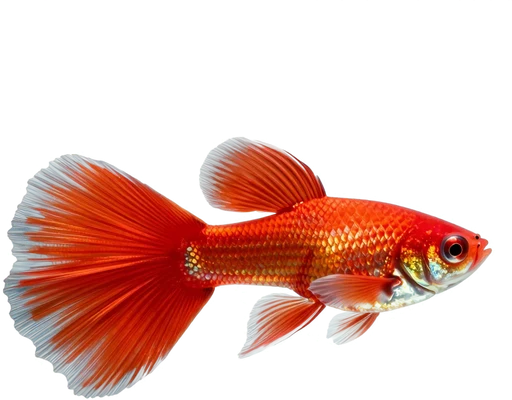
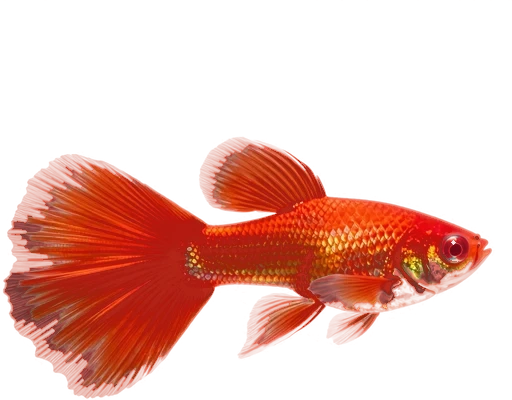
孔雀魚品系：禮服改成前銀後黑、白子改成紅眼全紅
- 藍尾禮服四種尾型：前半身銀白、後半身黑色，尾鰭和背鰭改成乾淨的藍
- 全紅白子四種尾型：頭和鰭邊改成紅色、去掉黑色素、眼睛改成寶石紅
- 換色出來的白子（白子紅蛇王等）也把眼睛改成紅色，不跟著主色

Claude-Session: https://claude.ai/code/session_01KsbS4vLZbfPytVNgNzSz4q

diff --git a/src/render/phenotype-art.ts b/src/render/phenotype-art.ts
@@ -120,8 +120,9 @@ export function recolorPixel(r: number, g: number, b: number, recipe: PhenotypeR
   return hslToRgb(h, Math.min(1, s), Math.min(1, l));
 }
 
-/** 整張圖（RGBA）就地改色。 */
-export function recolorImage(data: Uint8ClampedArray, recipe: PhenotypeRecipe): void {
+/** 整張圖（RGBA）就地改色。給了寬度時，白子的眼睛改成紅色（沒有黑色素，看得到血色）。 */
+export function recolorImage(data: Uint8ClampedArray, recipe: PhenotypeRecipe, width = 0): void {
+  const eye = recipe.albino && width > 0 ? eyePixels(data, width) : [];
   for (let i = 0; i < data.length; i += 4) {
     if (data[i + 3] === 0) continue;
     const [r, g, b] = recolorPixel(data[i] / 255, data[i + 1] / 255, data[i + 2] / 255, recipe);
@@ -129,4 +130,35 @@ export function recolorImage(data: Uint8ClampedArray, recipe: PhenotypeRecipe): 
     data[i + 1] = Math.round(g * 255);
     data[i + 2] = Math.round(b * 255);
   }
+  for (const [i, k] of eye) {
+    data[i] = 110 + 120 * k;
+    data[i + 1] = 8 + 30 * k;
+    data[i + 2] = 22 + 30 * k;
+  }
+}
+
+const lum = (d: Uint8ClampedArray, i: number) => (d[i] * 0.3 + d[i + 1] * 0.59 + d[i + 2] * 0.11) / 255;
+
+/** 魚頭朝右：右邊 20% 最暗的點是瞳孔；回傳瞳孔附近暗像素的位置和亮度（0–1）。 */
+export function eyePixels(data: Uint8ClampedArray, width: number): [number, number][] {
+  const height = data.length / 4 / width;
+  let best = -1, bestL = 2;
+  for (let y = 0; y < height; y++) {
+    for (let x = Math.floor(width * 0.8); x < width; x++) {
+      const i = (y * width + x) * 4;
+      if (data[i + 3] < 200) continue;
+      const l = lum(data, i);
+      if (l < bestL) { bestL = l; best = i / 4; }
+    }
+  }
+  if (best < 0) return [];
+  const cx = best % width, cy = Math.floor(best / width), out: [number, number][] = [];
+  for (let y = Math.max(0, cy - 16); y <= Math.min(height - 1, cy + 16); y++) {
+    for (let x = Math.max(0, cx - 16); x <= Math.min(width - 1, cx + 16); x++) {
+      const i = (y * width + x) * 4;
+      const l = lum(data, i);
+      if ((x - cx) ** 2 + (y - cy) ** 2 <= 256 && data[i + 3] > 0 && l < 90 / 255) out.push([i, l / (90 / 255)]);
+    }
+  }
+  return out;
 }

diff --git a/src/render/phenotype-art.test.ts b/src/render/phenotype-art.test.ts
@@ -1,6 +1,6 @@
 import { describe, expect, it } from 'vitest';
 import type { GuppyPhenotype } from '../sim';
-import { parseRecipeKey, phenotypeRecipe, recipeKey, recolorPixel } from './phenotype-art';
+import { parseRecipeKey, phenotypeRecipe, recipeKey, recolorImage, recolorPixel } from './phenotype-art';
 
 const P = (o: Partial<GuppyPhenotype>): GuppyPhenotype => ({ albino: false, gold: false, tuxedo: false, red: false, snake: false, grass: false, ...o });
 
@@ -42,6 +42,15 @@ describe('依基因上色的公孔雀魚', () => {
     const recipe = phenotypeRecipe(P({ snake: true, red: true, albino: true }));
     const [r, g, b] = recolorPixel(0.05, 0.04, 0.04, recipe);
     expect((Math.max(r, g, b) + Math.min(r, g, b)) / 2).toBeGreaterThan(0.3);
+  });
+
+  it('白子的眼睛改成紅色，不是主色', () => {
+    const w = 20, h = 10, data = new Uint8ClampedArray(w * h * 4).fill(220);
+    const eye = (5 * w + 17) * 4;
+    data.set([10, 10, 12, 255], eye);
+    recolorImage(data, phenotypeRecipe(P({ snake: true, gold: true, albino: true })), w);
+    expect(data[eye]).toBeGreaterThan(100);
+    expect(data[eye + 1]).toBeLessThan(40);
   });
 });
 

diff --git a/src/render/painted.ts b/src/render/painted.ts
@@ -300,7 +300,7 @@ function derivedTexture(key: string): Texture | null {
   const { canvas, ctx } = makeCanvas(img.width, img.height);
   ctx.drawImage(img, 0, 0);
   const data = ctx.getImageData(0, 0, canvas.width, canvas.height);
-  recolorImage(data.data, recipe);
+  recolorImage(data.data, recipe, canvas.width);
   ctx.putImageData(data, 0, 0);
   const tex = canvasTexture(canvas);
   textures.set(key, tex);
